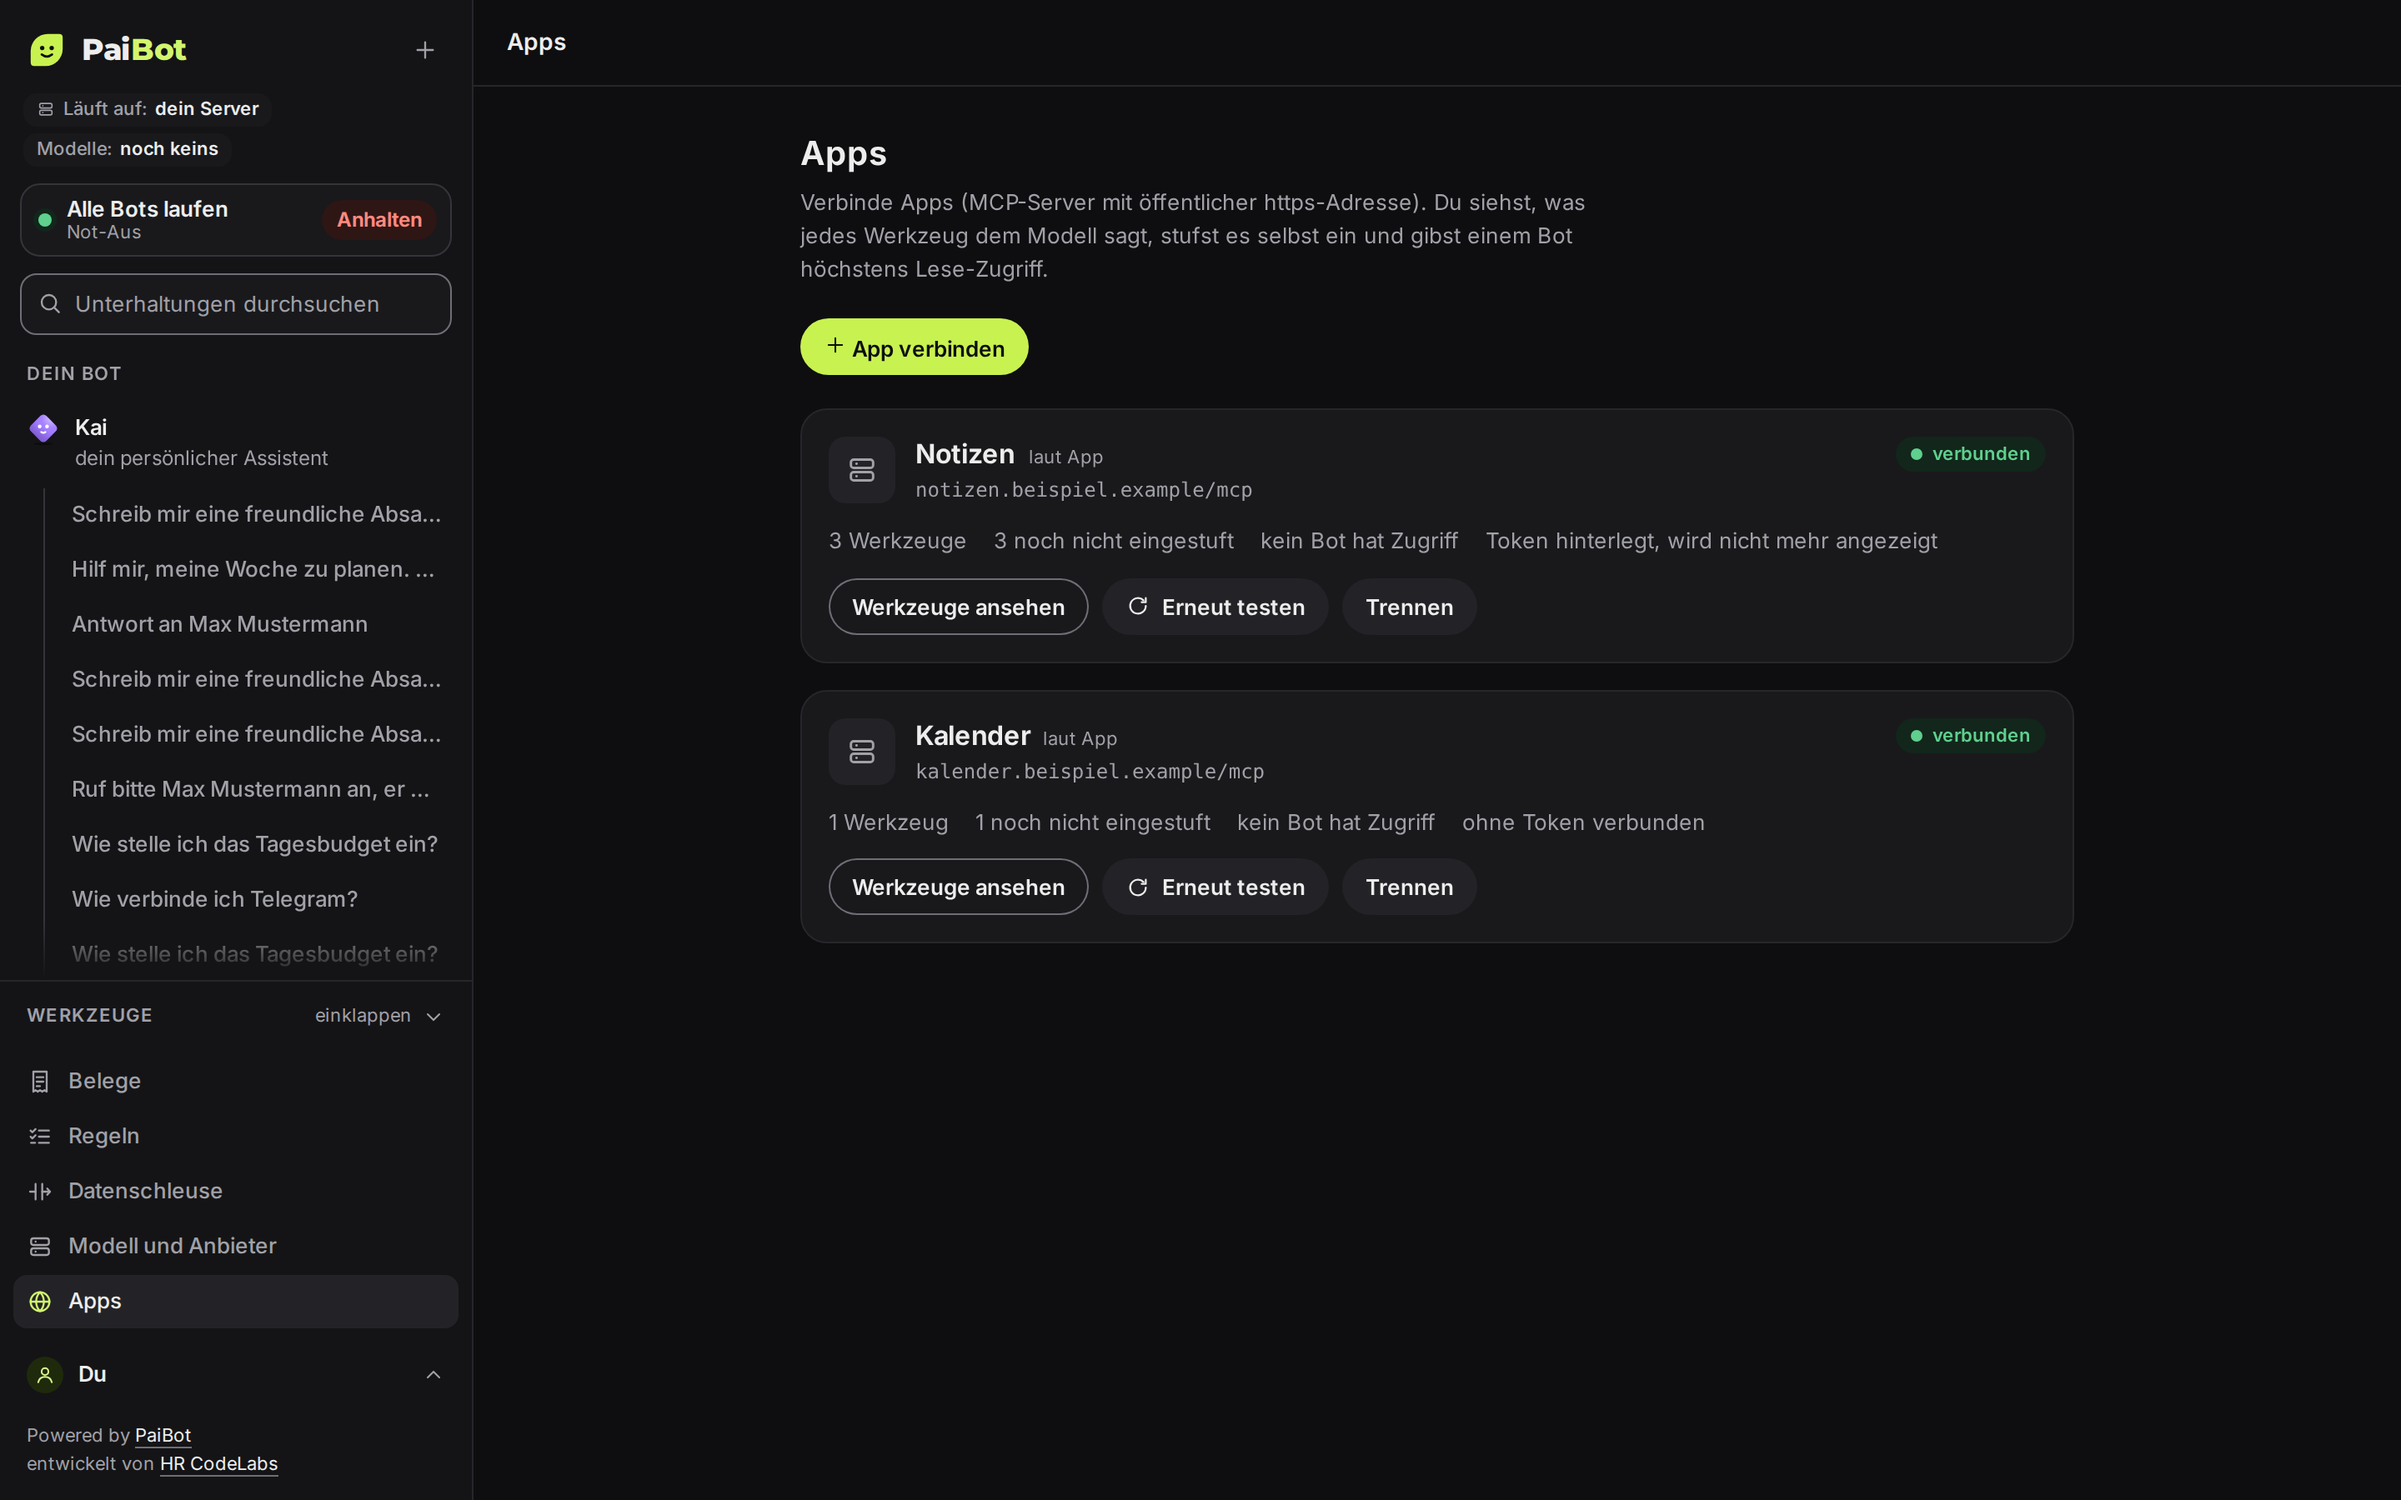
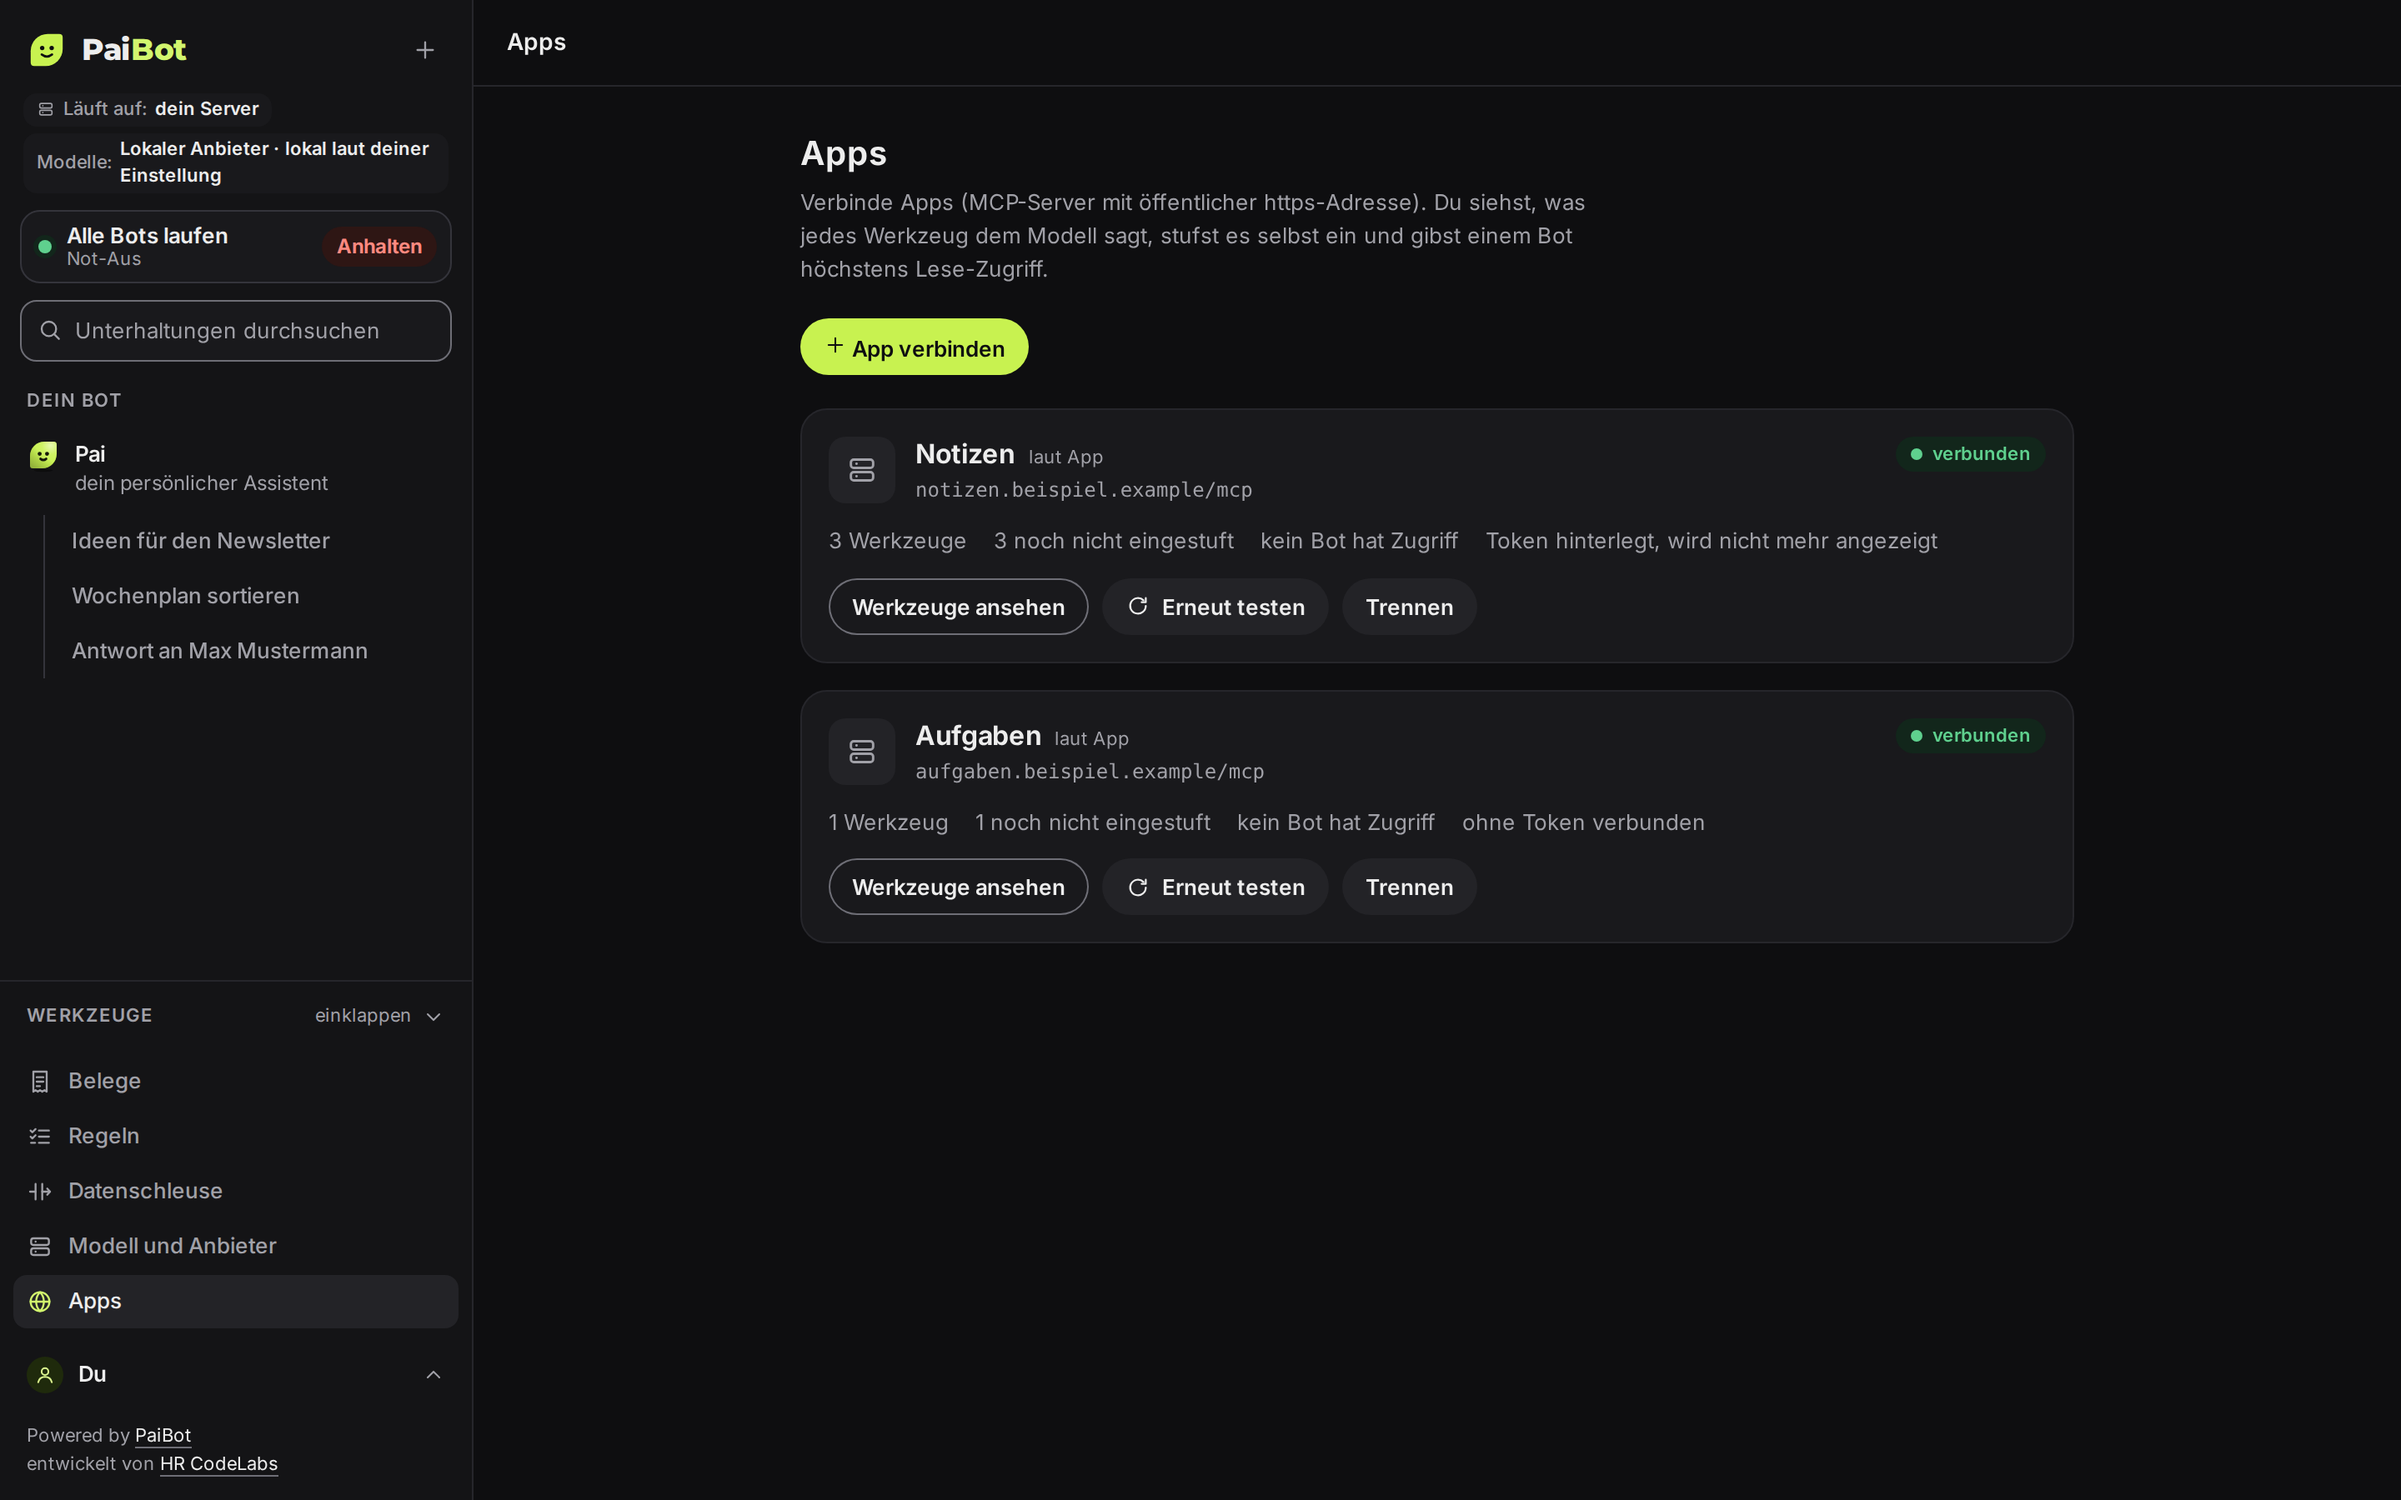
Doku und Beispiel-Daten: Beispiel-App „Aufgaben“ statt „Kalender“ (Kern-Wort einer Frage ohne Treffer); Bilder der Seite „Apps“ neu (#74)

Changed region(s): [[0.0, 0.0933, 0.1875, 0.5289], [0.0312, 0.56, 0.1562, 0.6533], [0.375, 0.4667, 0.4688, 0.4978]]

diff --git a/docs/entwickler/apps.md b/docs/entwickler/apps.md
@@ -189,7 +189,7 @@ Der Test-Server (`tools/test-mcp-server/src/index.ts#createTestMcpServer`) ist n
 - **Nicht gegen echte Server geprüft:** Die Web-App verwaltet Apps über Routen und die Seite „Apps“ (siehe „Oberfläche“), und der Lauf ruft bestätigte, lesende App-Werkzeuge im Direkt-Chat auf (Anschluss im Worker, siehe [Werkzeug-Kern](werkzeug-kern.md)). Der Anschluss im Worker lief bisher nicht gegen den echten Test-Server durch die echte Hülle; gegen echte MCP-Server ist nichts geprüft. Die Tabellen und die Fassung 3 des Tors stehen ([Apps: Datenmodell](apps-datenmodell.md)).
 - **Namen vergibt die Schicht und, für die gespeicherten Werkzeuge, die Datenbank:** `vergebeModellNamen` in der Schicht und `repo.apps.sehen` in der Datenbank vergeben je eigene Namen. Maßgeblich sind die gespeicherten der Datenbank; wer die Schicht aufruft, reicht sie immer als `bekannteNamen` hinein (die Schicht übernimmt sie unverändert, siehe „Modell-Namen bleiben stabil“). Die Namen, die die Schicht für neue Werkzeuge berechnet, werden dann nicht benutzt. `namenZumSpeichern` der Schicht benutzt die Web-App nicht, weil die Datenbank die Namen vergibt.
 - **Zugriff und gleichzeitiges Trennen (nur der Trigger):** `repo.apps.setAccess` sperrt die Zeile der App; wer dagegen direkt in `bot_app_grants` schreibt (nicht über diese Funktion), hat die Sperre nicht: Der Trigger der Zugriffs-Tabelle liest die App-Zeile ohne Sperre (`packages/db/drizzle/0016_*.sql`, Funktion `paibot_bot_app_grants_regeln`). Trennt eine andere Verbindung die App genau zwischen dem Lesen des Triggers und dem Ende des Einfügens (schon reines Trennen reicht, ein erneutes Verbinden ist dazu nicht nötig), kann eine Zeile für eine schon beendete Verbindung entstehen; der geltende Zugriff bleibt richtig, nur das Protokoll zeigt sie. Eine Sperre im Trigger bräuchte eine neue Migration.
-- **Links in frischen Antworten, bis das Kennzeichen feststeht:** Der Strom (`message.completed`) nennt `untrusted` nicht; es steht erst im Lesestand. Deshalb sind Links in einer Antwort nur Text, solange sie streamt und bis die Nachfrage zum Lauf (`laufWerkzeuge`, Feld `fremde`) geantwortet hat; die Ansicht fragt für jeden fertigen Lauf einmal nach, auch ohne Schritte (`apps/web/src/lib/chat/ansicht.ts`, `herkunftOffen`). Erst die Antwort der Nachfrage entscheidet: Trägt die Antwort das Kennzeichen, bleiben die Links Text mit vollem Ziel, sonst werden sie anklickbar. Scheitert die Nachfrage, bleiben die Links bis zum Neuladen Text (die sichere Seite). Kosten: ein zusätzlicher Abruf je fertiger Antwort. Rest: Ob eine Antwort das Kennzeichen trägt, entscheidet allein, wer es in der Datenbank setzt (der Anschluss im Lauf); eine Antwort, die sich auf fremden Inhalt stützt, ohne dass er es setzt, bleibt anklickbar.
+- **Links in frischen Antworten, bis das Kennzeichen feststeht:** Der Strom (`message.completed`) nennt `untrusted` nicht; es steht erst im Lesestand. Deshalb sind Links in einer Antwort nur Text, solange sie streamt und bis die Nachfrage zum Lauf (`laufWerkzeuge`, Feld `fremde`) geantwortet hat; die Ansicht fragt für jeden fertigen Lauf einmal nach, auch ohne Schritte und auch nach Abbruch oder Fehler, wenn schon Text da ist (`apps/web/src/lib/chat/ansicht.ts`, `herkunftOffen`, `linksNurText`). Erst die Antwort der Nachfrage entscheidet: Trägt die Antwort das Kennzeichen, bleiben die Links Text mit vollem Ziel, sonst werden sie anklickbar. Scheitert die Nachfrage, bleiben die Links bis zum Neuladen Text (die sichere Seite). Kosten: ein zusätzlicher Abruf je fertiger Antwort. Rest: Ob eine Antwort das Kennzeichen trägt, entscheidet allein, wer es in der Datenbank setzt (der Anschluss im Lauf); eine Antwort, die sich auf fremden Inhalt stützt, ohne dass er es setzt, bleibt anklickbar.
 - **Adress-Klassen prüft die Hülle:** Private und interne Ziele sperrt allein die Ausgangs-Hülle; ohne sie (mit dem globalen `fetch`) wären sie offen (`packages/mcp/src/verbindung.ts#pruefeAdresse`).
 - **Rechenzeit im Web-Prozess:** Das Aufbereiten einer Liste kostet messbar Rechenzeit. Die Routen der App-Verwaltung tun es im Web-Prozess; dort begrenzen Zeit, Seitenzahl und Größe der Schicht den Abruf, und ein Abruf zählt auf das Limit des Verbindungstests (`apps/web/src/lib/routen.ts`). Im Worker, wo der Anschluss im Lauf es später tut, gelten dieselben Grenzen der Schicht.
 - **Fehlercodes nur lokal:** Die Codes stehen in `packages/mcp/src/fehler.ts`, nicht im gemeinsamen Vertrag; ebenso die Namensmuster (`packages/mcp/src/namen.ts#MODELL_NAME_MUSTER`).

diff --git a/docs/funktion-apps.md b/docs/funktion-apps.md
@@ -34,7 +34,7 @@ Du willst, dass dein Bot im Chat etwas nachschlagen kann, das in einer anderen A
 6. Klick bei einer App auf **Werkzeuge ansehen**. Du siehst jedes Werkzeug mit dem Text, der ans Modell gehen würde, und darunter den **Zugriff der Bots**. Ein neues Werkzeug gilt als „schreibt“, bis du es einstufst. Die Angabe „laut App: nur lesend“ ist nur eine Auskunft der App und ändert nichts.
 
    ![Eine aufgeklappte App: Werkzeuge mit Beschreibung und „laut App“-Hinweis, darunter der Zugriff der Bots](assets/screenshots/apps-werkzeuge.png)
-7. Klick bei einem Werkzeug auf **Einstufen**. Dort steht der volle Text, den das Modell sähe (Beschreibung, Feldnamen, Beschreibungen der Felder, Auswahlwerte, Vorgaben, Beispiele). Wähle **Liest nur**, **Schreibt** oder **Gesperrt** und klick auf **Bestätigen**. Mit „Liest nur“ sagst du, dass das Werkzeug nichts verändert; das entscheidest du, nicht die App.
+7. Klick bei einem Werkzeug auf **Einstufen**. Dort steht der volle Text, den das Modell sähe (Beschreibung, Feldnamen, Beschreibungen der Felder und – unter „(Werkzeug)“ – die Beschreibung des ganzen Eingabe-Schemas, Auswahlwerte, Vorgaben, Beispiele). Wähle **Liest nur**, **Schreibt** oder **Gesperrt** und klick auf **Bestätigen**. Mit „Liest nur“ sagst du, dass das Werkzeug nichts verändert; das entscheidest du, nicht die App.
 
    ![Ein Werkzeug wird eingestuft: voller Text, gewählt „Liest nur“, Hinweis vor dem Bestätigen](assets/screenshots/apps-einstufen.png)
 8. Nach dem Bestätigen gilt die Einstufung für genau die Fassung, die du gesehen hast. Ein als „liest“ eingestuftes Werkzeug wird angeboten; alle anderen nicht.
@@ -50,7 +50,7 @@ Du willst, dass dein Bot im Chat etwas nachschlagen kann, das in einer anderen A
 
 ## So sieht es aus
 
-Die Bilder zu den einzelnen Schritten stehen oben in der Anleitung (Beispiel-Daten, erfundene Apps „Notizen“ und „Kalender“, nichts davon ist ein echter Server). Am Handy steht alles untereinander:
+Die Bilder zu den einzelnen Schritten stehen oben in der Anleitung (Beispiel-Daten, erfundene Apps „Notizen“ und „Aufgaben“, nichts davon ist ein echter Server). Am Handy steht alles untereinander:
 
 ![Seite „Apps“ auf dem Handy, eine App aufgeklappt](assets/screenshots/apps-handy.png)
 
@@ -76,8 +76,8 @@ Die Bilder zu den einzelnen Schritten stehen oben in der Anleitung (Beispiel-Dat
 - **Nicht jedes Werkzeug lässt sich prüfen:** Hat ein Werkzeug ein Eingabe-Schema, das PaiBot nicht prüfen kann, wird es nicht gespeichert und nie angeboten.
 - **Grenzen beim Lesen der Liste:** PaiBot liest höchstens 200 Werkzeuge je Abruf; hat die App mehr, steht das in der Meldung und die übrigen fehlen.
 - **Was „geändert“ im Einzelnen war,** zeigt die Seite noch nicht: Sie sagt nur, dass sich die Fassung geändert hat.
-- **Nicht gegen echte Server geprüft:** Verbinden, Einstufen und Zugriff sind gegen einen Test-Server geprüft, nicht gegen echte MCP-Server (zum Beispiel Notion, Linear oder ein Kalender). Ob echte Server nach diesen Regeln bestätigbar sind, ist offen.
-- **Im Chat:** Die Zeile eines Werkzeug-Aufrufs im Chat nennt die App noch nicht. Hat sich eine Antwort auf Inhalte aus einer App gestützt, sind Links darin nicht anklickbar: Das ganze Ziel steht als Text daneben, auch der Abfrage-Teil. Wer es öffnen will, kopiert es. Solange eine Antwort noch schreibt und kurz danach, bis PaiBot den Lauf gelesen hat, sind Links in jeder Antwort nur Text; erst dann werden sie anklickbar, wenn die Antwort nicht auf Inhalte aus einer App beruht. Scheitert dieses Lesen, bleiben sie bis zum Neuladen Text.
+- **Nicht gegen echte Server geprüft:** Verbinden, Einstufen und Zugriff sind gegen einen Test-Server geprüft, nicht gegen echte MCP-Server (zum Beispiel Notion oder Linear). Ob echte Server nach diesen Regeln bestätigbar sind, ist offen.
+- **Im Chat:** Die Zeile eines Werkzeug-Aufrufs im Chat nennt die App noch nicht. Hat sich eine Antwort auf Inhalte aus einer App gestützt, sind Links darin nicht anklickbar: Das ganze Ziel steht als Text daneben, auch der Abfrage-Teil. Wer es öffnen will, kopiert es. Solange eine Antwort noch schreibt und kurz danach, bis PaiBot den Lauf gelesen hat (auch bei einer abgebrochenen oder gescheiterten Antwort mit Teiltext), sind Links in jeder Antwort nur Text; erst dann werden sie anklickbar, wenn die Antwort nicht auf Inhalte aus einer App beruht. Scheitert dieses Lesen, bleiben sie bis zum Neuladen Text.
 
 ## Fehlerbehebung
 
